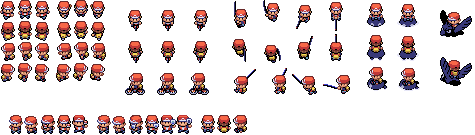
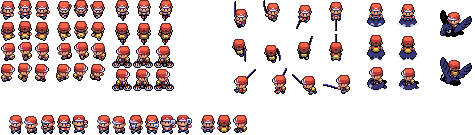
Bike

Changed region(s): [[0.2358, 0.0, 0.4421, 0.7111]]

diff --git a/Classes/Characters/Character.cpp b/Classes/Characters/Character.cpp
@@ -223,13 +223,15 @@ void Character::updateSpriteAnimate(float delta)
 	x = 0;
 	y = 0;
 
+	this->curAnimeType = Character::ANIMETYPE::BIKE;
+
 	switch (this->curAnimeType)
 	{
 		case Character::ANIMETYPE::STAND:
 			x = w + 1;
 			break;
 		case Character::ANIMETYPE::RUN:
-			x = (w+1) * 3 + 5;
+			x = (w + 1) * 3 + 5;
 			if (this->isMoveActing == true)
 			{
 				x += (w + 1) * this->oldAnimePos;
@@ -241,7 +243,7 @@ void Character::updateSpriteAnimate(float delta)
 			}
 			else
 			{
-				x += (w + 1);
+				x += w + 1;
 			}
 			break;
 		case Character::ANIMETYPE::WALK:
@@ -254,12 +256,33 @@ void Character::updateSpriteAnimate(float delta)
 				this->oldAnimePos = 0;
 			}
 			break;
+		case Character::ANIMETYPE::BIKE:
+			x = (w + 1) * 3 + 5;
+			x += (w + 1) * 3 + 5;
+
+			w = 20;
+			h = 22;
+
+			if (this->isMoveActing == true)
+			{
+				x += (w + 1) * this->oldAnimePos;
+				this->oldAnimePos++;
+				if (this->oldAnimePos >= 3)
+				{
+					this->oldAnimePos = 0;
+				}
+			}
+			else
+			{
+				x += w + 1;
+			}
+			break;
 	}
 
 	switch (this->direction) 
 	{
 		case Character::DIRECTION::UP:
-			y = (h + 1);
+			y = h + 1;
 			break;
 		case Character::DIRECTION::DOWN:
 			y = 0;

diff --git a/Classes/PlayLayer.cpp b/Classes/PlayLayer.cpp
@@ -54,7 +54,7 @@ bool PlayLayer::init()
 	auto mapDetails = map->getMapInfo()->getObjectGroup("DETAILS");
 
 	auto trainer = new Trainer;
-	trainer->setSprite(RD_C_TRAINERS + "/female_frlg.png");
+	trainer->setSprite(RD_C_TRAINERS + "/male_frlg.png");
 	trainer->setName("Dark.Hades");
 	auto toPos = Vec2(0, 0);
 	if (mapDetails)

diff --git a/Classes/Characters/Character.h b/Classes/Characters/Character.h
@@ -32,6 +32,7 @@ public:
 		STAND,
 		WALK,
 		RUN,
+		BIKE,
 	};
 public:
 	Character();
